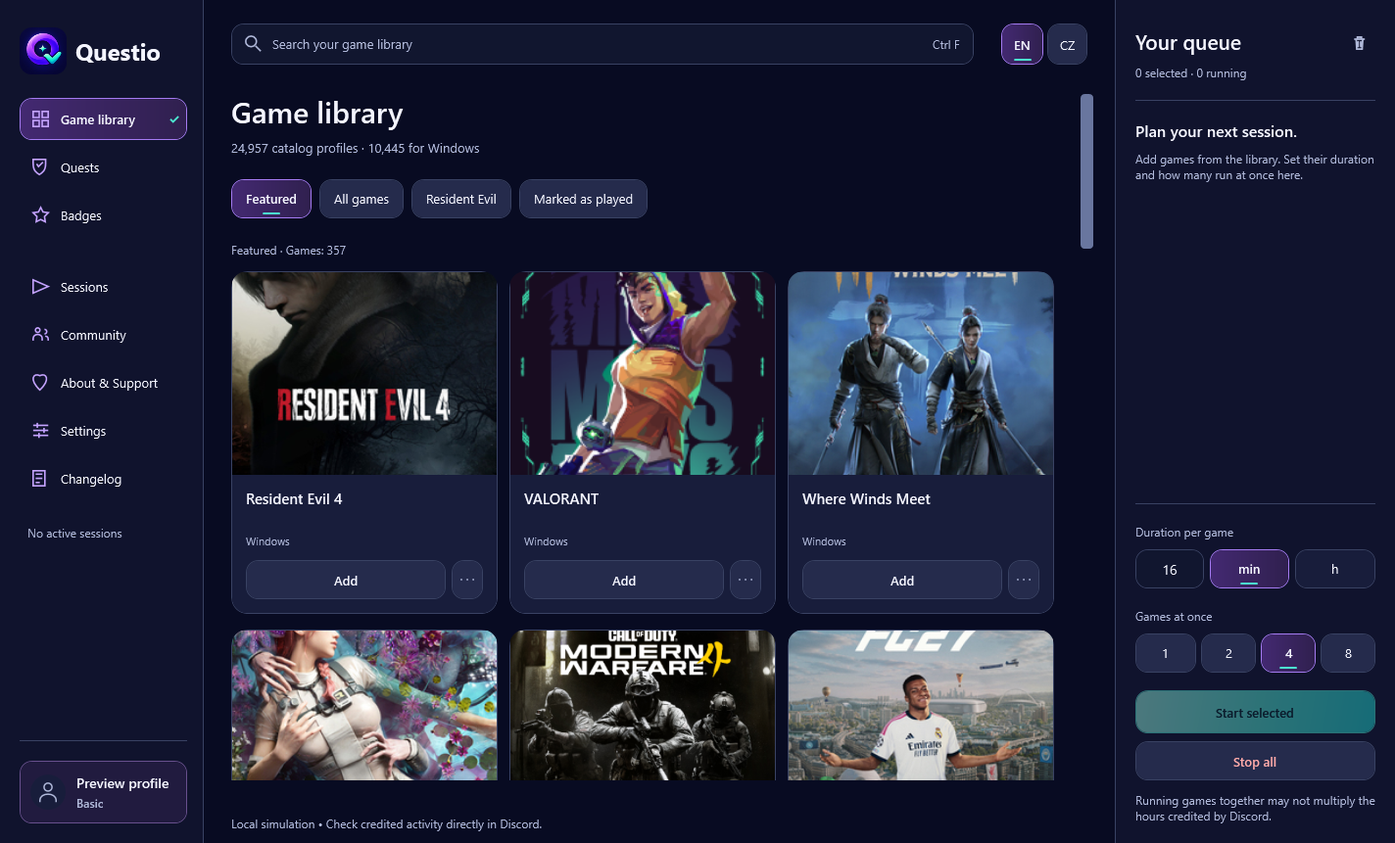
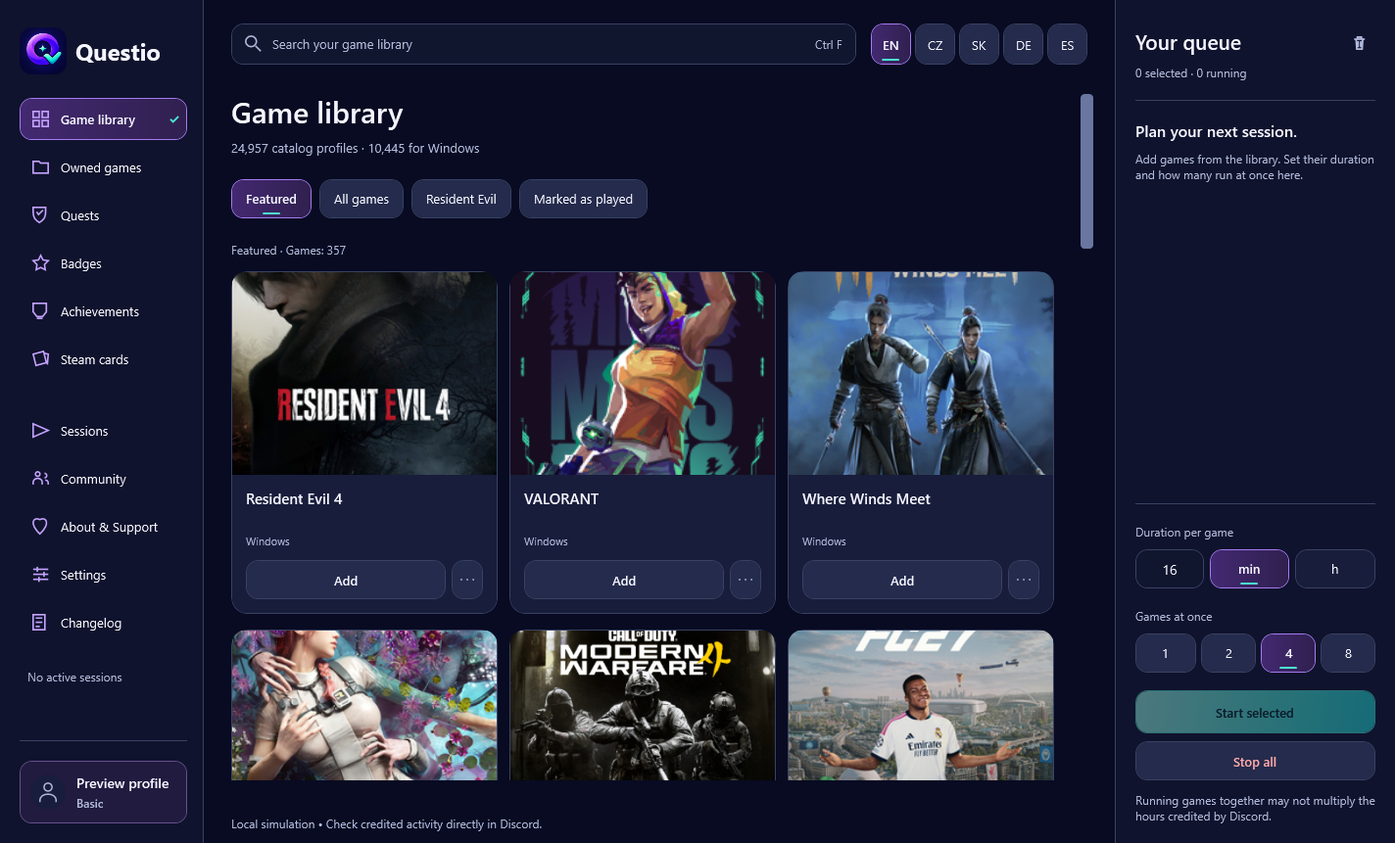
Add platform libraries, achievements and Discord startup controls
Show installed quest games and launch verified Steam games from the cards page.
Add read-only libraries and achievements, plus Slovak, German and Spanish translations.
Show the project status and build time, and validate the release packages.

diff --git a/VERIFICATION.md b/VERIFICATION.md
@@ -1,37 +1,25 @@
-# Questio 3.2 Beta — verification
+# Questio 4.0 Beta — verification
 
-30 October 2026. Windows / .NET Framework 4.8. Executable version 3.2.0.0.
+3 November 2026. Windows desktop, .NET Framework 4.8, executable version 4.0.0.0.
 
-## Changes
+## What was checked
 
-Configured the creator-supplied Owner, Developer, Supporter and Basic role IDs for the existing community. The confirmed Owner account remains pinned. Owner and Developer members can open Admin workspace; Basic, Supporter and Early Access alone cannot. Every verified member retains free Basic features, with or without the named member role.
+**600 local checks passed:** 291 startup, inventory and collection checks; 168 WPF checks; 88 community checks; 26 process/queue checks; 27 Steam profile checks. All tests ran on a fresh build. The verification script records the executable hash and checks that its build inputs did not change during testing.
 
-Administration checks require a current membership grant for the same Discord identity. Local phrase locks are isolated by Discord account and protected by Windows DPAPI. The confirmed Owner keeps the legacy file and encryption entropy. New accounts use separate files and identity-specific entropy. No common password, bot token or client secret is embedded. Public configuration exports now retain Owner and Basic mappings.
+The automated startup suite uses simulated clients and hidden test windows; it does not open or close Discord. A separate Windows GUI fixture accepted a cooperative Restart Manager request, and a second fixture refused it and remained running. No forced shutdown flag is used. The verified production controller requested a normal exit of the running signed Discord client and observed its processes exit. It then reopened the same signed client and observed the continuing process and its Electron child on this Windows PC.
 
-The UI reconciles role changes after membership checks from sign-in/refresh, polling and session starts. Role changes relock the panel and update navigation. Export checks identity and authorization both before and after the save dialog. English/Czech labels and privacy/help text reflect the new behavior.
+Steam inventory fixtures cover exact game identity, missing drives, outdated libraries, files that moved, incomplete manifests, redirected folders, and the old FC 27 helper. Only a click launches a real game through Steam; the app rechecks the current registered library first. A read-only scan on this PC also recognized actual Steam installations. An installation is not proof of ownership, card eligibility or Discord reward progress.
 
-## Verification
+The public Steam Community example for Left 4 Dead returned 38 earned and 35 unearned achievements both by its stats slug and App ID 500. Unknown, private and partial responses are not treated as all achievements missing. Numeric redirects are restricted and the original profile/game are verified. Steam library API requests were tested against controlled responses, not a real personal key. Epic library support was tested against Legendary-format JSON, not a live Epic account. Local Epic records are isolated by Discord account, Epic profile and game, including imported games with duplicate display names.
 
-Fresh build and all suites passed: **88 CommunityTests + 152 DesktopTests + 26 CoreTests + 23 SteamProfileTests = 289 checks**. verify-3.2.ps1 records the exact tested executable hash; package-3.2.ps1 requires the matching build and successful suite logs.
+The language validator checks 520 text keys in each of the Slovak, German and Spanish packs, including placeholders, URLs and line breaks. The UI and in-app changelog switch languages; the packaged written guides are English and Czech. Minimum-size quest/card/achievement captures and Spanish text wrapping were inspected. Public screenshots use a demonstration profile and fixture game installation. Membership and role enforcement remain covered by controlled tests; there was no new live role grant/revocation test in this release.
 
-Role tests cover configured and unknown roles, pending membership, role removal, grant expiry, mismatched identities, independent phrase files, correct phrases without permission, legacy Owner compatibility and configuration round trips. WPF checks cover admin navigation/lock/settings, account changes, revoked/restored roles and English/Czech minimum-size views.
+## Release
 
-The initial Owner-role test failed before implementation. Independent code review found a missing relock when session-start verification consumed a role change before polling. A regression through the actual session-start/authentication caller reproduced stale admin navigation, then passed after shared role reconciliation. Initial attempts at that new test had fixture lifetime and dispatcher-context errors; the corrected harness dispatches the UI action normally and injects the session after startup restoration. Those setup errors are not counted as product results.
+The Windows ZIP contains ten allowlisted entries: the application, English/Czech guides, privacy, changelog, this report, checksum, known issues and artwork notices/sources. The separate checksum identifies the download ZIP. The public distribution repository contains only public documentation, metadata, screenshots, support templates and validation/notification workflows. App source, private notes, credentials, local Epic lists and test helpers are excluded. The Discord announcement workflow skips with a visible notice when no webhook is configured.
 
-Existing OAuth lifecycle, local process/queue, Steam-file ownership/cleanup, diagnostics, localization and avatar checks remain included. Test transport supplies controlled Discord responses; no live role assignment/removal, new live sign-in, second-PC, screen-reader, high-DPI or reward-credit result is claimed. The earlier live pinned Owner test was in version 3.0.
+## Limits
 
-## Distribution and limits
+Portable unsigned beta, manual updates. Clean second-PC setup, live high-DPI and screen-reader testing remain outstanding. Quest presets are historical and personal status stays in Discord. Epic accounts are not universally live-synced. No platform achievement unlock, card farming, automatic server join or protection from platform enforcement is claimed. Local timers are not evidence of credited hours/quests/badges. The current invite was checked for the configured guild on 3 November 2026: https://discord.gg/ERzQaHgPeV.
 
-The public repository has documentation, issue/support templates, attribution, mock-profile screenshots and a read-only validation workflow. Application source, private owner notes, test helpers and account files remain private. The Windows ZIP has ten allowlisted entries and executable/download hashes. GitHub Source code archives of the public repository contain documentation only.
-
-The updated changelog includes 15 releases and 83 notes per language. Previous application and repository ZIPs are preserved. The 3.2 public repository archive is Questio-3.2-GitHub-ready.zip. No remote publication or GitHub-hosted workflow execution was performed.
-
-This remains **Beta**. FC 27 quest progress, badge counts and credited hours remain unresolved/unverified; local timers are not Discord progress. Separate Early Access role IDs and preview links remain unconfigured. Membership verification needs internet access; role changes apply when checked, with a cached grant lasting at most two minutes.
-
-No bot/backend or automatic joining is included. The permanent invite is https://discord.gg/ERzQaHgPeV. OAuth guilds.join consent alone does not add a member; Add Guild Member also needs the same application's bot token: https://docs.discord.com/developers/resources/guild#add-guild-member . A bot token is not distributed with the EXE.
-
-The binary is unsigned and not obfuscated. Local membership checks and locks cannot prevent copying or patching. Updates are manual; voluntary PayPal support does not assign roles automatically.
-
-## Česky
-
-Questio 3.2 prošlo 289 kontrolami. Dodané role jsou nastaveny; vlastníci a vývojáři mají místní Správu projektu s vlastní frází. Běžní členové a podporovatelé správu neodemknou. Odebrání oprávnění zjištěné při kontrole panel zamkne, původní zámek potvrzeného vlastníka zůstává kompatibilní. Živé přidělení rolí na Discordu ani další počítač zatím nebyly ověřeny. Zdroj zůstává soukromý, žádné společné heslo nebo token bota není přibaleno. Automatické připojení, FC 27 a odznaky tímto vydáním opraveny nejsou.
+Official data sources: [Steam player statistics](https://partner.steamgames.com/doc/webapi/ISteamUserStats), [Steam owned games](https://partner.steamgames.com/doc/webapi/IPlayerService), [Steam Community data](https://partner.steamgames.com/documentation/community_data), [Epic achievements](https://dev.epicgames.com/docs/epic-online-services/player-and-game-data/achievements-interface), [Legendary export format](https://github.com/legendary-gl/legendary), [Windows Restart Manager](https://learn.microsoft.com/en-us/windows/win32/api/restartmanager/nf-restartmanager-rmshutdown).

diff --git a/PRIVACY.md b/PRIVACY.md
@@ -1,9 +1,9 @@
-QUESTIO 3.2 BETA — PRIVACY / SOUKROMÍ
+QUESTIO 4.0 BETA — PRIVACY / SOUKROMÍ
 
 EN
 Questio runs locally. Discord OAuth asks for identify and guilds.members.read for your basic profile/avatar and membership/role IDs in the configured community. No email, private messages, payment credentials or personal quest list is requested. It does not extract tokens from the Discord client.
 
-Requests go directly to Discord API/CDN. Membership is checked at sign-in, before starting sessions and periodically while open. If Remember me is selected, OAuth credentials are protected with Windows DPAPI for the current Windows account and are not sent to the creator. Profile pictures, preferences and local history are cached under LOCALAPPDATA/PlaytimeDesktop. Sign out removes the saved OAuth session, not preferences/history. Permission can also be revoked in Discord Authorized Apps.
+Sign-in, avatar and membership requests go directly to Discord API/CDN. Membership is checked at sign-in, before starting sessions and periodically while open. If Remember me is selected, OAuth credentials are protected with Windows DPAPI for the current Windows account and are not sent to the creator. Profile pictures, preferences and local history are cached under LOCALAPPDATA/PlaytimeDesktop. Sign out removes the saved OAuth session, not preferences/history. Permission can also be revoked in Discord Authorized Apps.
 
 Admin workspace is available to the confirmed Owner account or configured Owner/Developer roles. Local locks are separate for each Discord account on this Windows account: owner-workspace.dpapi for the confirmed Owner, workspace-<Discord ID>.dpapi for other administrators. The app stores only a salted PBKDF2-SHA256 phrase derivation (150,000 rounds), protected with DPAPI. The phrase is not transmitted or exported. Public release configuration contains community/role IDs and optional public links, not tokens. The local lock does not prevent EXE copying or modification.
 
@@ -14,7 +14,7 @@ Optional FC 27 setup writes an owned helper, manifest and ownership record to a 
 CZ
 Questio běží místně. Oficiální Discord OAuth požaduje identify a guilds.members.read pro profil/avatar a členství/role v nastavené komunitě. Nežádá e-mail, zprávy, platební údaje ani osobní seznam questů. Nevytahuje tokeny z klienta Discordu.
 
-Požadavky směřují přímo na Discord API/CDN. Členství se kontroluje při přihlášení, před spuštěním a pravidelně. Zapamatované OAuth údaje chrání DPAPI účtu Windows; autorovi se neposílají. Avatar, nastavení a historie se ukládají do LOCALAPPDATA/PlaytimeDesktop. Odhlášení odstraní přihlášení, ale zachová nastavení a historii. Oprávnění můžeš zrušit v autorizovaných aplikacích Discordu.
+Požadavky přihlášení, avataru a členství směřují přímo na Discord API/CDN. Členství se kontroluje při přihlášení, před spuštěním a pravidelně. Zapamatované OAuth údaje chrání DPAPI účtu Windows; autorovi se neposílají. Avatar, nastavení a historie se ukládají do LOCALAPPDATA/PlaytimeDesktop. Odhlášení odstraní přihlášení, ale zachová nastavení a historii. Oprávnění můžeš zrušit v autorizovaných aplikacích Discordu.
 
 Správa projektu je dostupná potvrzenému vlastníku nebo nastaveným rolím Owner/Developer. Místní zámky jsou oddělené podle účtu Discord na tomto účtu Windows: owner-workspace.dpapi pro potvrzeného vlastníka a workspace-<Discord ID>.dpapi pro ostatní správce. Aplikace ukládá solený otisk fráze pomocí PBKDF2-SHA256 (150 000 iterací), chráněný DPAPI. Fráze se neposílá ven ani neexportuje. Veřejný export obsahuje ID a odkazy, nikoliv tokeny. Zámek nebrání kopírování nebo úpravám EXE.
 
@@ -26,3 +26,15 @@ Volitelné nastavení FC 27 zapisuje vlastní helper, manifest a záznam vlastni
 Diagnostic export is optional and local: app/Windows/runtime versions, language, session counts and signed-in/membership flags only. It excludes account identity, OAuth tokens, paths, raw exceptions and game history. Nothing is uploaded automatically. Review the file before attaching it to a support request.
 
 Export diagnostiky je dobrovolný a místní: pouze verze aplikace/Windows/runtime, jazyk, počty relací a stav přihlášení/členství. Bez identity účtu, tokenů, cest, výjimek a herní historie. Nic se neodesílá automaticky. Před přiložením k hlášení soubor zkontroluj.
+
+4.0 — The local installation scan reads Steam library records, Epic installation manifests and selected game file metadata; it does not upload the inventory or modify launcher libraries. The optional startup check reads the Discord protocol registration, process identity, publisher signature and the client's minimize-to-tray preference. No Discord-client token or quest history is read. The simulated FC 27 setup remains a separate explicit action.
+
+Steam achievement lookups send the specified SteamID and game to Steam Community only when requested, without cookies or a shared API key. Steam results stay in memory, are scoped to the current account and are cleared at logout. Epic lists are not sent to Epic. Preview does not write; Save writes a local, unencrypted personal file under PlaytimeDesktop/epic-achievements for the current Discord identity, Epic profile and game. Sign-out hides the lists but does not erase them. Close Questio and remove that folder to erase all local Epic lists on this Windows account. The badges link opens Steam in your browser. No automatic card farming or payments are performed. The optional diagnostics report does not contain inventories, profile IDs, Steam requests or achievements.
+
+4.0 — Kontrola instalací čte místní záznamy knihoven Steam/Epic a metadata souborů her. Seznam neposílá a nemění knihovny launcherů. Volitelný restart Discordu kontroluje registrovaný klient, podpis, běžící proces a nastavení minimalizace do oznamovací oblasti. Nečte tokeny Discord klienta ani historii questů.
+
+Načtení achievementů posílá zadané SteamID a hru do Steam Community pouze na vyžádání, bez cookies nebo sdíleného klíče. Výsledky Steamu jsou v paměti a při odhlášení se vymažou. Epic seznamy neopouštějí PC: náhled nic nezapisuje, Uložit vytvoří místní nešifrovaný soubor pod PlaytimeDesktop/epic-achievements pro příslušný Discord účet, Epic profil a hru. Odhlášení je skryje, ale nemaže. Všechny místní Epic seznamy můžeš po zavření Questio vymazat odstraněním tohoto adresáře. Diagnostika neobsahuje knihovny, profily, požadavky na Steam ani achievementy.
+
+Owned games: a user-initiated online Steam library lookup sends the entered SteamID64 and optional user Web API key directly to api.steampowered.com over HTTPS. The key is not written to disk/logs, included in the request URL, shared with the project, or retained for subsequent requests. Treat any personally selected Web API key as private. A Valve GetOwnedGames JSON or Legendary Epic library JSON can instead be imported locally. Imported titles/results are session data; Questio does not upload the import, save it as a library database, access Epic credentials or modify platform ownership or achievements. The source file remains wherever the user saved it.
+
+Vlastněné hry: při dobrovolném online dotazu na knihovnu se SteamID64 a volitelný osobní Web API klíč odesílají přímo na api.steampowered.com přes HTTPS. Klíč se neukládá, není v adrese URL ani v diagnostice. Místní JSON z Valve GetOwnedGames nebo seznam Epic her z Legendary se nikam neodesílá a nezmění stav vlastnictví ani achievementů. Vybraný zdrojový soubor zůstává na původním místě.

diff --git a/README.md b/README.md
@@ -2,38 +2,52 @@
 
 # Questio
 
-A free Windows desktop app for browsing game profiles and managing **local activity sessions**. Sign in with Discord and join the Questio community to use it. English and Czech are built in.
+[![Project status](assets/status.svg)](STATUS.md)
+
+<!-- package-details -->
+**Version:** 4.0 Beta · **Last updated:** 2026-11-03 20:52 UTC · [Changelog](CHANGELOG.md)
+<!-- /package-details -->
+
+A free Windows app that checks which quest games are installed, shows read-only achievements and opens real Steam games from your card collection. Sign in with Discord and join the Questio community to use it. Choose English, Czech, Slovak, German or Spanish at the top.
 
 **Created by Tecka.exe and Nouně · Supported by NodeVault and NF Scripts**
 
 [Download releases](../../releases) · [Join Discord](https://discord.gg/ERzQaHgPeV) · [Česky](docs/README.cs.md) · [Known limitations](KNOWN_ISSUES.md)
 
-![Questio desktop library](assets/library.png)
+![Questio showing a demo Resident Evil installation](assets/quests.png)
 
 ## Download and start
 
-1. Open **Releases** and download `Questio-3.2-Beta-Windows.zip`. GitHub's automatic **Source code** archives contain this documentation, not the application.
+1. Open **Releases** and download `Questio-4.0-Beta-Windows.zip`. GitHub's automatic **Source code** archives contain this documentation, not the application.
 2. Extract the ZIP to a writable folder. Run `Questio.exe` as your normal Windows user; administrator access is not required.
 3. Sign in on the official Discord page. Questio requests your profile and membership/role information for its community.
 4. If needed, join the [community](https://discord.gg/ERzQaHgPeV), complete its membership screening and choose **Check membership**.
-5. Choose profiles, duration and concurrency. Stop all sessions from the queue or close Questio.
+5. Start on Quests. Check your local Steam and Epic installations, then open Discord for your personal offers and rewards.
 
 Requires Windows with .NET Framework 4.8 and internet access for Discord sign-in/membership checks. The release is portable and currently unsigned. The packaged verification report describes actual testing; a clean second-PC test has not yet been recorded.
 
 The release ZIP includes `SHA256.txt` for the extracted EXE. A separate release `SHA256SUMS.txt` identifies the download ZIP. Compare a downloaded ZIP with PowerShell:
 
 ```powershell
-Get-FileHash -LiteralPath .\Questio-3.2-Beta-Windows.zip -Algorithm SHA256
+Get-FileHash -LiteralPath .\Questio-4.0-Beta-Windows.zip -Algorithm SHA256
 ```
 
-## What it does
+## New in 4.0
+
+- **Quests:** filter saved presets by the local installation check. The matched edition is shown; helper processes do not count as an installation. Personal quests and their progress stay in Discord.
+- **Discord startup:** opt in to a skippable countdown. Questio opens a signed registered client or requests a normal restart. If the client would minimize to the tray or cannot be verified, it does not force a restart.
+- **Owned games:** view visible Steam titles by SteamID or import Valve’s GetOwnedGames result; for Epic, open the launcher library or import a Legendary library export. Games need not be installed.
+- **Achievements:** look up explicit results for a public Steam profile and supported game. For Epic, open the official profile or preview and save a clearly labeled personal list on this PC.
+- **Steam cards:** see remaining drops on your Steam badge page. Choose one verified installation and click to launch it through Steam. Nothing is farmed automatically.
+
+## Other features
 
 - Search a large catalog of game profiles, with game artwork and saved selections.
 - Run up to eight local sessions, with a queue, duration controls and local history.
 - Browse saved quest presets and manually plan game-count/playtime goals.
 - Sign in using Discord OAuth, show your avatar and check community membership.
 - Recognize Owner, Developer, Supporter and Basic community roles; all members keep the same free stable tools. Owner and Developer have a local Admin workspace with individual unlock phrases.
-- Switch English/Czech and export a small diagnostic report when you choose.
+- Switch between five languages and export a small diagnostic report when you choose.
 
 **Activity sessions run helper processes, not the actual games.** Local timers do not prove that Discord detected a game or credited a quest, badge or playtime. Quest presets are saved examples, not a live list of your quests. FC 27 and badge credit remain unverified. This release stays **Beta**; see [known limitations](KNOWN_ISSUES.md).
 

diff --git a/CHANGELOG.md b/CHANGELOG.md
@@ -2,6 +2,19 @@
 
 All released versions, newest first. Historical entries describe the app at that release; later entries may replace earlier behavior. Discord recognition, quests and badge credit remain unverified.
 
+## 4.0 Beta — 2026-11-03
+
+Installed games, achievements and Steam cards
+
+- Start on Quests and check local Steam and Epic installations in the background. Filter the saved presets by installation status and see the matched edition. Open Discord for personal offers, progress and rewards.
+- Added an optional Discord restart at startup with a countdown and Skip. Questio verifies the registered client and requests a normal exit. If closing the window would minimize it, Questio can ask Windows Restart Manager to close only the verified Discord process, without forcing it to stop.
+- Added a read-only Steam achievements view for public profiles and supported games. Unavailable and partial results stay separate from earned and unearned achievements.
+- Added Epic My Achievements guidance and local personal lists with preview and explicit save. Records are separated by Discord account, Epic profile and game.
+- Added Steam cards: open your badge page and launch a verified installed Steam game on click. Remaining drops are shown by Steam; Questio does not farm cards or award them.
+- Updated the community invitation and English/Czech guides. Existing account permissions, local session selections and admin locks remain compatible.
+- Added owned-game lists independent of installation: visible Steam libraries and Valve JSON, plus local imports of Epic titles from Legendary. Select a game to inspect its achievements.
+- Added Slovak, German and Spanish throughout the app and release history.
+
 ## 3.2 Beta — 2026-10-30
 
 Community roles and admin access
@@ -163,6 +176,19 @@ The original Windows simulator
 # Přehled změn — čeština
 
 Všechny vydané verze od nejnovější. Starší záznamy popisují aplikaci v době vydání; novější změny mohou dřívější chování nahradit. Rozpoznání Discordem, questy a započítání odznaků zůstávají neověřené.
+
+## 4.0 Beta — 2026-11-03
+
+Nainstalované hry, achievementy a Steam kartičky
+
+- Po přihlášení se otevřou Questy a na pozadí se zkontrolují místní instalace ze Steamu a Epicu. Uložené předvolby lze filtrovat podle stavu instalace a zobrazit odpovídající edici. Osobní nabídky, postup a odměny zůstávají na Discordu.
+- Přidán volitelný restart Discordu při spuštění s odpočtem a možností přeskočení. Questio ověří registrovaného klienta a požádá o běžné ukončení. Pokud by se okno pouze minimalizovalo, může požádat Správce restartování Windows o ukončení pouze ověřeného procesu Discordu bez vynucení.
+- Přidán přehled Steam achievementů pro veřejné profily a podporované hry. Nedostupné nebo částečné výsledky zůstávají oddělené od získaných a nezískaných achievementů.
+- Přidán návod pro Epic My Achievements a vlastní místní seznamy s náhledem a výslovným uložením. Záznamy jsou oddělené podle účtu Discord, profilu Epic a hry.
+- Přidány Steam kartičky: otevři stránku svých odznaků nebo kliknutím spusť ověřenou nainstalovanou hru. Zbývající kartičky ukazuje Steam; Questio je automaticky nefarmí ani nepřiděluje.
+- Aktualizována pozvánka do komunity a české/anglické návody. Stávající oprávnění účtů, výběr relací a zámky správy zůstávají kompatibilní.
+- Přidány seznamy vlastněných her nezávislé na instalaci: viditelná knihovna Steamu a Valve JSON, pro Epic místní import z Legendary. Vybráním hry otevřeš její achievementy.
+- Přidána slovenština, němčina a španělština do aplikace i přehledu změn.
 
 ## 3.2 Beta — 2026-10-30
 

diff --git a/KNOWN_ISSUES.md b/KNOWN_ISSUES.md
@@ -1,4 +1,4 @@
-# Known limitations — Questio 3.2 Beta
+# Known limitations — Questio 4.0 Beta
 
 | Area | Status |
 | --- | --- |
@@ -9,12 +9,19 @@
 | Game-count badges and playtime credit | Not guaranteed or verified by local timer tests. |
 | Quest listing | Historical presets from 29 October 2026. No personal quest or progress API integration. |
 | Owner / Developer / Supporter / Basic roles | Supplied IDs are configured and covered by local membership/UI tests. Live role assignment/removal on Discord has not been verified. Separate Early Access roles remain unconfigured. |
+| Desktop restart | Requires a verified registered desktop client. A running client needs one identifiable main window and a verified normal exit path. If Windows cannot isolate that process and closing the window would only minimize it, Questio leaves it running. |
+| Installed games | Scoped Steam/Epic detection is not proof of ownership, quest eligibility or card drops. Unsupported stores, uncertain identities and incomplete sources can return Unverified. |
+| Owned library | Steam results depend on game visibility and a user-provided key or import. Epic titles can be imported from a user-selected Legendary export. Questio does not live-sync the entire Epic account. |
+| Unlocks | Questio does not grant platform achievements in third-party games. It does not promise protection from platform enforcement. |
+| Steam achievements | Public Steam Community XML is deprecated. A profile/game can be private, partial or unsupported. |
+| Epic achievements | The official profile and local custom records are available; there is no universal automatic Epic library sync. |
+| Steam cards | Remaining drops are displayed by Steam. Questio launches a verified game only on a user click and cannot award cards. |
 | Automatic server joining / migration | Not implemented; use the invite. |
 | Offline use | Membership verification needs an internet connection. A failed verification stops active and queued sessions. |
 | Windows signing | EXE is unsigned. No claim of SmartScreen reputation or an antivirus allowlisting is made. |
 | Updates | Manual download and replacement; no automatic updater. |
-| Display/accessibility | English/Czech normal/minimum views were inspected. Live 150%/200% display scaling and screen-reader testing remain outstanding. |
+| Display/accessibility | English/Czech and Spanish captures were inspected; language switching also has local tests. Live 150%/200% display scaling and screen-reader testing remain outstanding. |
 
-The permanent invite is https://discord.gg/ERzQaHgPeV. Its guild and no-expiration response were checked on 30 October 2026. An owner can still revoke an invite later.
+The permanent invite is https://discord.gg/ERzQaHgPeV. Its guild and no-expiration response were checked on 3 November 2026. An owner can still revoke an invite later.
 
 Several simultaneous sessions do not necessarily multiply Discord credit. A profile name shown in Discord also does not prove eligibility for a quest or badge. Do not report local time as a confirmed reward.

diff --git a/docs/README.cs.md b/docs/README.cs.md
@@ -4,13 +4,13 @@ Bezplatná aplikace pro Windows s knihovnou herních profilů, místními relace
 
 ## Stažení
 
-1. V sekci **Releases** stáhni `Questio-3.2-Beta-Windows.zip`. Automatický archiv Source code obsahuje dokumentaci, nikoliv EXE.
+1. V sekci **Releases** stáhni `Questio-4.0-Beta-Windows.zip`. Automatický archiv Source code obsahuje dokumentaci, nikoliv EXE.
 2. Rozbal ZIP a spusť `Questio.exe` pod běžným účtem Windows. Je potřeba .NET Framework 4.8 a internet.
 3. Přihlas se přes oficiální stránku Discordu. Aplikace čte profil a členské role, ne zprávy nebo heslo.
 4. Připoj se na [Discord Questio](https://discord.gg/ERzQaHgPeV), dokonči případná pravidla a stiskni Ověřit členství.
 5. Vyber profily, délku a souběžnost. Relace zastavíš tlačítkem Zastavit vše nebo zavřením aplikace.
 
-EN/CZ přepneš nahoře. Každý člen má aplikaci zdarma. [Podpora přes PayPal](https://paypal.me/NouneNunu) je dobrovolná a automaticky nepřiděluje roli.
+Nahoře přepneš EN, CZ, SK, DE nebo ES. Každý člen má aplikaci zdarma. [Podpora přes PayPal](https://paypal.me/NouneNunu) je dobrovolná a automaticky nepřiděluje roli.
 
 ## Co očekávat
 
@@ -25,3 +25,7 @@ Pro chybu přidej verzi, postup a výsledek. Nastavení → Exportovat diagnosti
 Repozitář slouží pro distribuci a podporu. Zdrojový kód aplikace zůstává soukromý.
 
 Role Owner a Developer zpřístupní Správu projektu s vlastní místní odemykací frází. Samotný Supporter nebo Basic správu neodemkne. Basic zůstává zdarma i členovi bez pojmenované členské role. Živé přidělení a odebrání rolí na Discordu zatím nebylo ověřeno.
+
+**Novinky 4.0:** Při spuštění můžeš povolit restart Discordu s možností přeskočit. Questy automaticky ověřují instalace Steam/Epic; osobní nabídky a odměny zůstávají na Discordu. Achievementy zobrazují veřejné výsledky Steamu a vlastní místní seznamy pro Epic. Steam kartičky otevřou oficiální stránku odznaků nebo spustí zvolenou ověřenou hru na kliknutí.
+
+Vlastněné hry: Steam umožňuje načíst viditelnou knihovnu přes osobní Web API klíč nebo import GetOwnedGames v JSON. U Epicu je dostupná knihovna launcheru a import JSON ze seznamu Legendary. Hry kvůli přehledu ani čtení achievementů nemusejí být nainstalované.

diff --git a/STATUS.md b/STATUS.md
@@ -1,0 +1,19 @@
+# Project status
+
+**Status:** Active
+
+**Reviewed:** 2026-11-03
+
+**Status last updated:** 2026-11-03 20:51 UTC
+
+Questio 4.0 Beta is maintained. See the verification report for what was tested.
+
+This is the maintainers' project status, not an automated platform-health or anti-detection test. An active project can still have [known issues](KNOWN_ISSUES.md). [Build verification](VERIFICATION.md) · [GitHub checks](https://github.com/Nufiik07/Questio/actions/workflows/validate.yml) · [Discord community](https://discord.gg/ERzQaHgPeV).
+
+| State | Meaning |
+| --- | --- |
+| Active | Maintained and accepting feedback. |
+| Maintenance | Work or an incident currently affects releases or features. |
+| Discontinued | Development has ended. |
+
+For maintainers: run **tools/set-project-status.ps1 -State maintenance** (or **active** / **discontinued**) and commit the updated status files. Use **-Note** to explain what changed.

diff --git a/SECURITY.md b/SECURITY.md
@@ -1,6 +1,6 @@
 # Security reporting
 
-Please do not post credentials, account takeover steps involving real users or private personal data in public issues. Contact the project maintainers through [Questio Discord](https://discord.gg/27jXU6C4Qg) to arrange a private report. GitHub private vulnerability reporting can also be used if the repository owner has enabled it.
+Please do not post credentials, account takeover steps involving real users or private personal data in public issues. Contact the project maintainers through [Questio Discord](https://discord.gg/ERzQaHgPeV) to arrange a private report. GitHub private vulnerability reporting can also be used if the repository owner has enabled it.
 
 State the affected app version, the impact and a minimal reproduction using test data. A local diagnostic report is optional and should be reviewed first. No private token is required to demonstrate an ordinary app bug.
 
